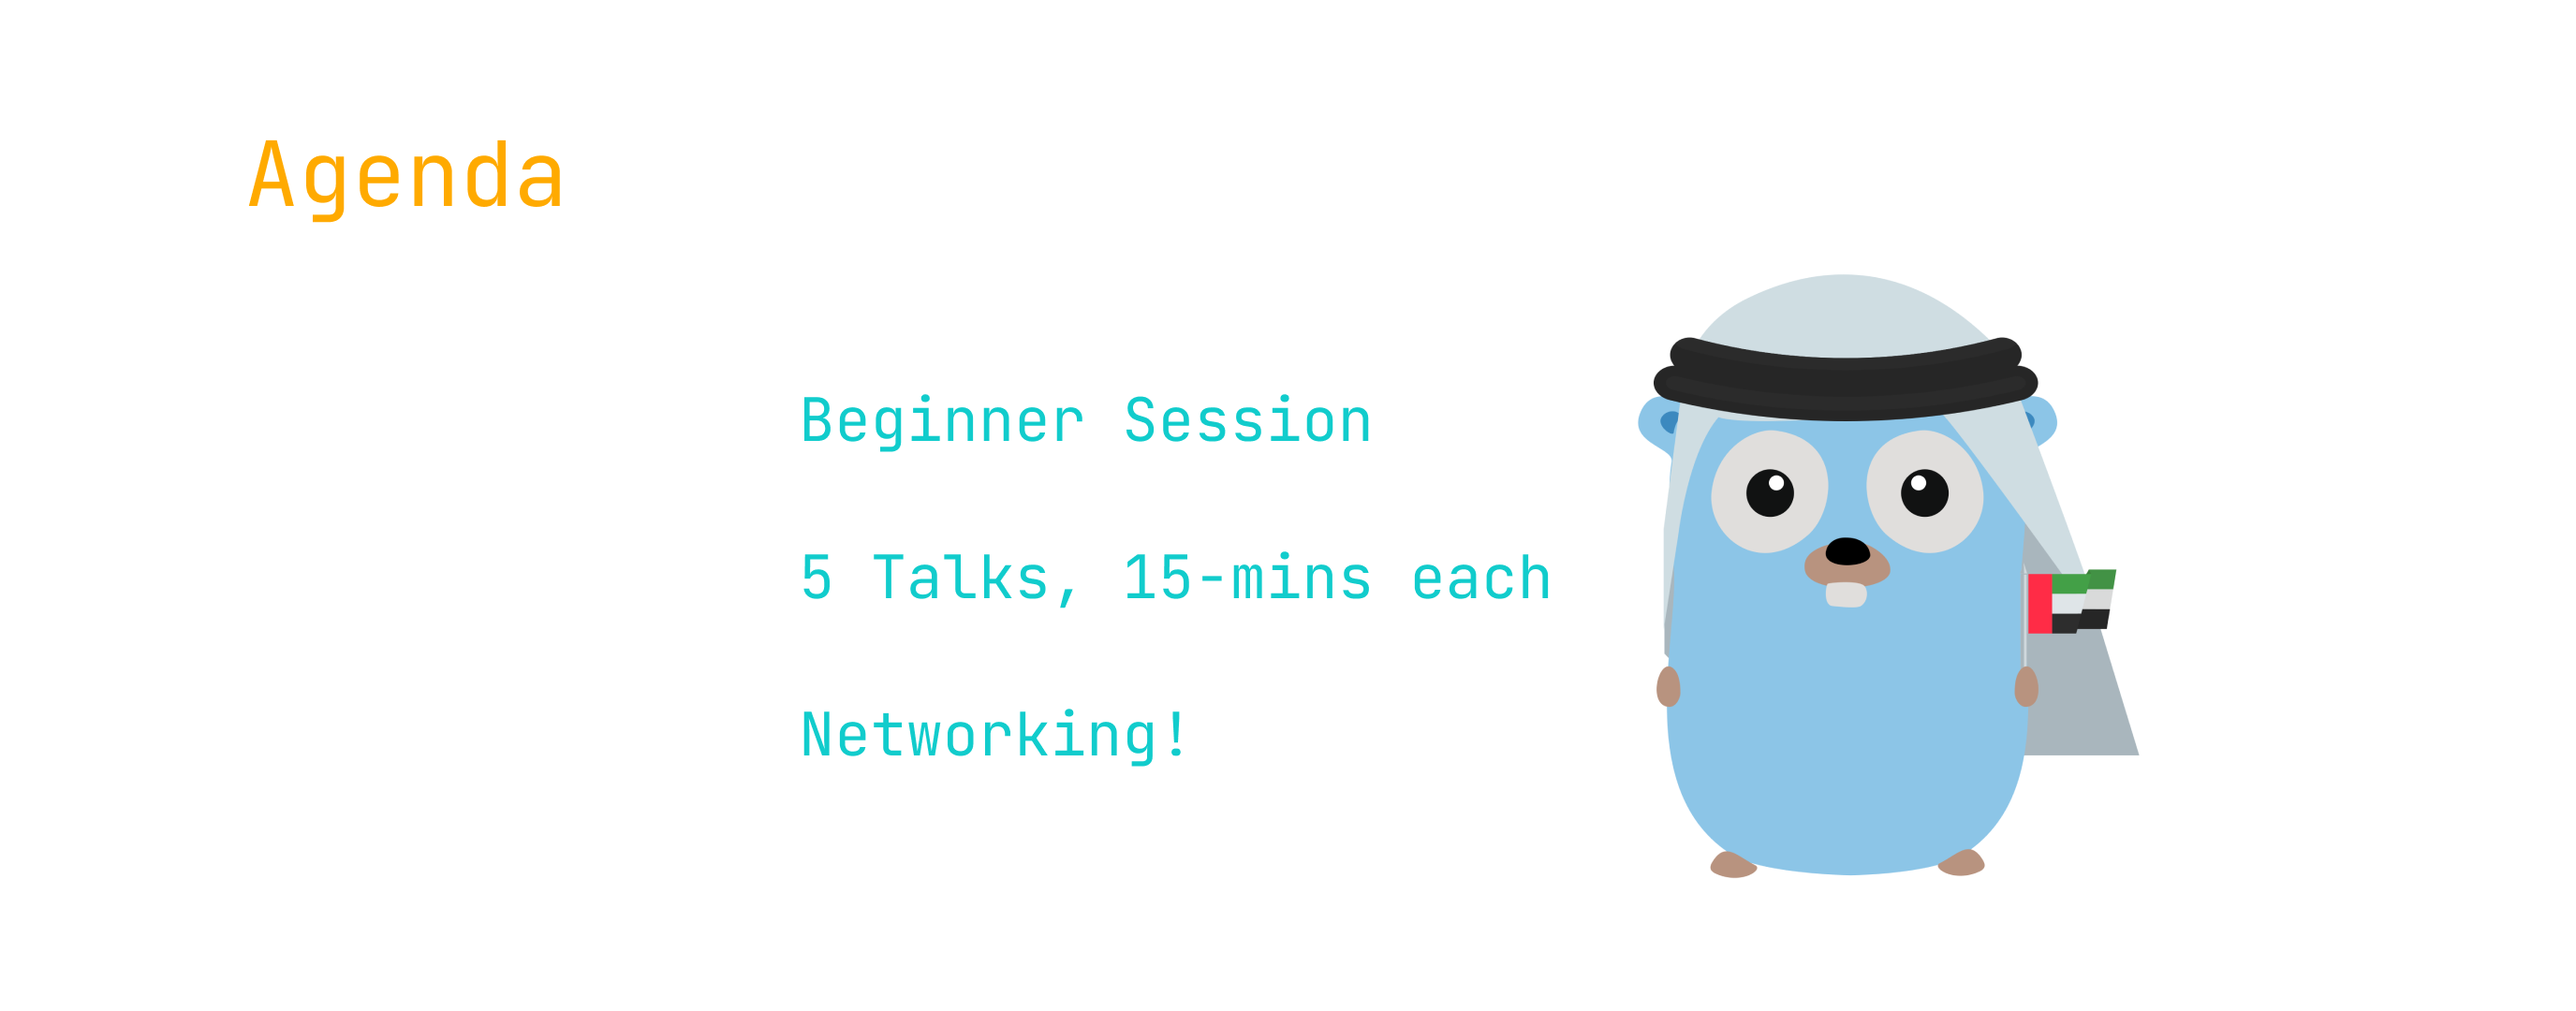
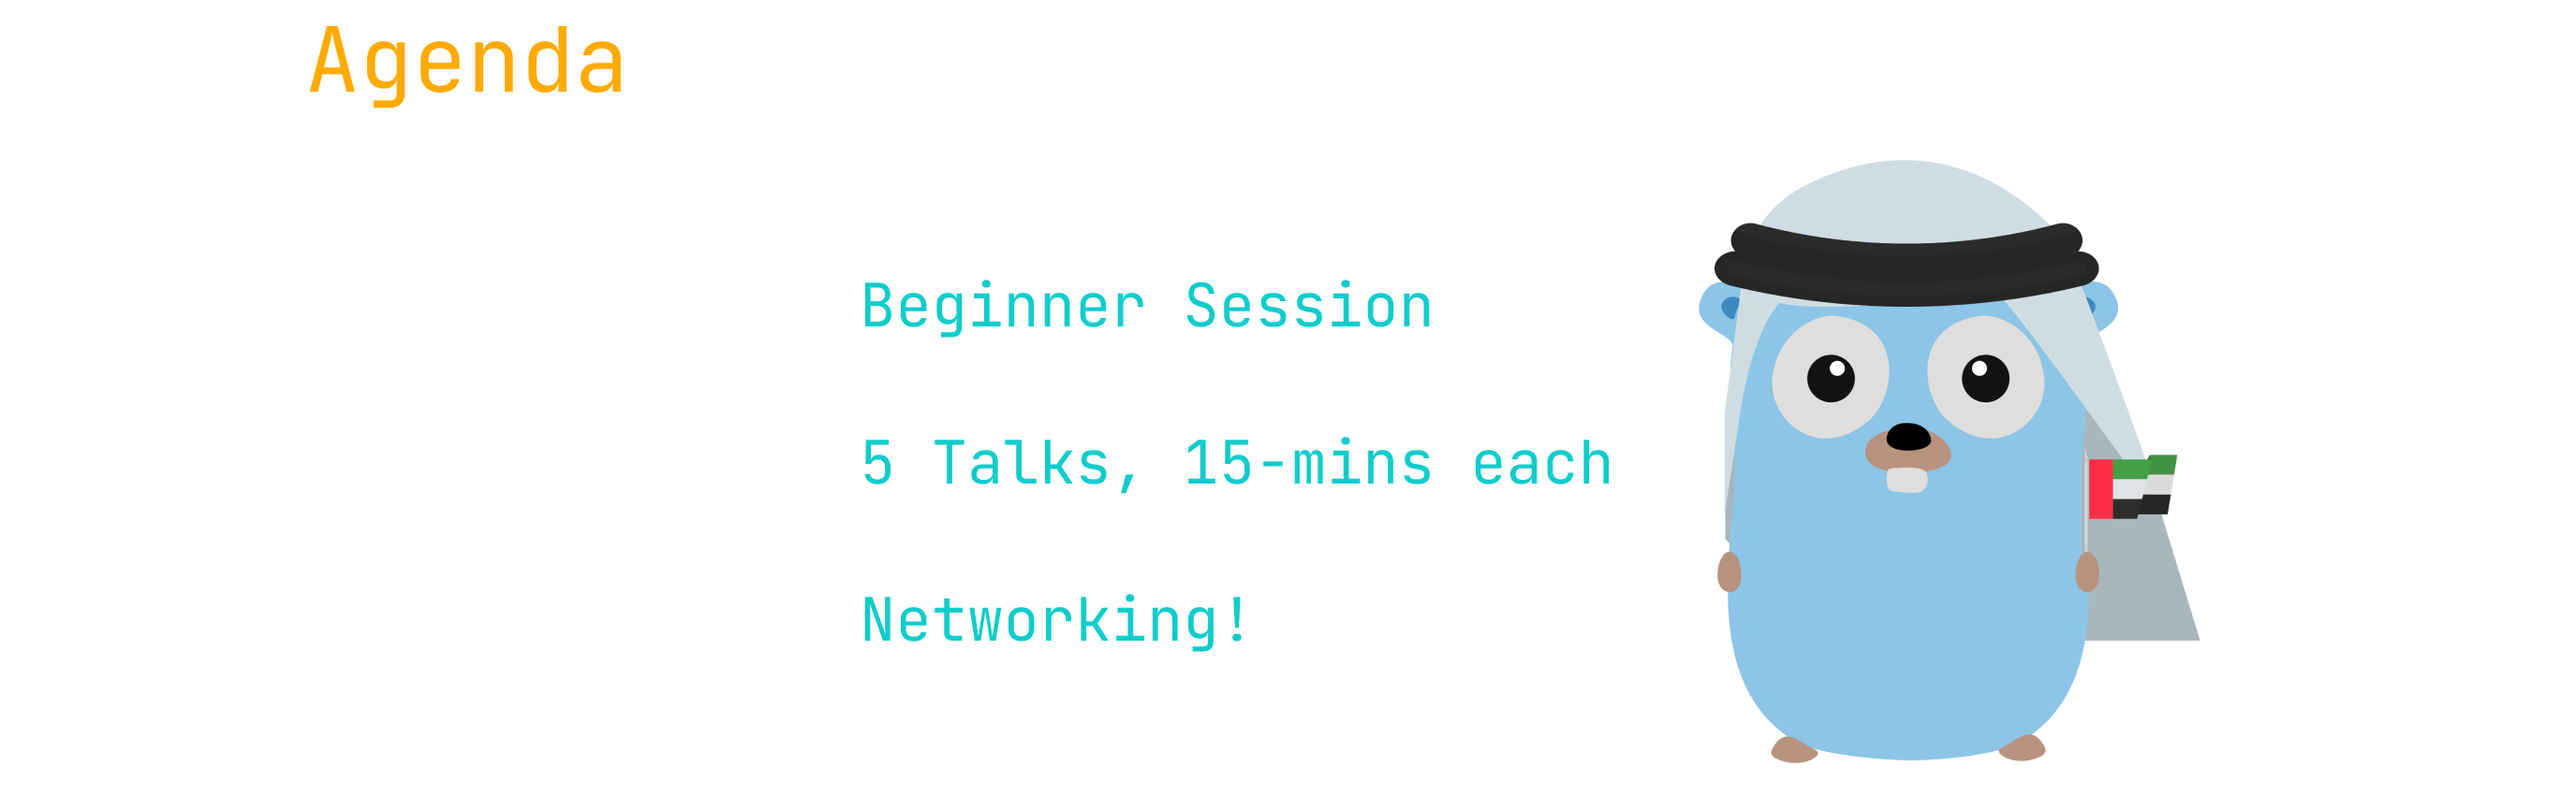
update slides

diff --git a/internal/model/model.go b/internal/model/model.go
@@ -19,6 +19,7 @@ import (
 	"github.com/maaslalani/slides/internal/file"
 	"github.com/maaslalani/slides/internal/navigation"
 	"github.com/maaslalani/slides/internal/process"
+	"github.com/maaslalani/slides/internal/slides"
 	"github.com/maaslalani/slides/internal/term"
 
 	"github.com/charmbracelet/bubbles/viewport"
@@ -40,10 +41,12 @@ const (
 	delimiter = "\n---\n"
 )
 
+const headerCells = 3
+
 // Model represents the model of this presentation, which contains all the
 // state related to the current slides.
 type Model struct {
-	Slides   []string
+	Slides   []slides.Slide
 	Page     int
 	Author   string
 	Date     string
@@ -107,7 +110,7 @@ func (m *Model) Load() error {
 		slides = slides[1:]
 	}
 
-	m.Slides = slides
+	m.Slides = m.parseSlides(slides)
 	m.Author = metaData.Author
 	m.Date = metaData.Date
 	m.Paging = metaData.Paging
@@ -118,9 +121,41 @@ func (m *Model) Load() error {
 	return nil
 }
 
+func (m *Model) updateSlides() {
+	for i, slide := range m.Slides {
+		header := slide.Header
+		img := slide.Image
+		headerStr := ""
+		if header != nil {
+			headerStr = code.RenderImage(header, m.TerminalProtocol, headerCells, m.viewport.Width)
+		}
+		imageStr := ""
+		if img != nil {
+			imageStr = code.RenderImage(img, m.TerminalProtocol, m.viewport.Height, m.viewport.Width)
+		}
+		m.Slides[i].HeaderStr = headerStr
+		m.Slides[i].ImageStr = imageStr
+	}
+}
+
+func (m *Model) parseSlides(slidesStr []string) []slides.Slide {
+	newSlides := make([]slides.Slide, len(slidesStr))
+	for i, slide := range slidesStr {
+		header, slide := preprocessHeader(slide)
+		img, slide := preprocessImage(slide)
+		newSlides[i] = slides.Slide{
+			Content: slide,
+			Header:  header,
+			Image:   img,
+		}
+	}
+
+	return newSlides
+}
+
 func (m *Model) ExecuteCode() {
 	// Run code blocks
-	blocks, err := code.Parse(m.Slides[m.Page])
+	blocks, err := code.Parse(m.Slides[m.Page].Content)
 	if err != nil {
 		// We couldn't parse the code block on the screen
 		m.VirtualText = "\n" + err.Error()
@@ -149,14 +184,8 @@ func (m Model) Update(msg tea.Msg) (tea.Model, tea.Cmd) {
 		m.viewport.Width = msg.Width
 		m.viewport.Height = msg.Height
 		m.VirtualText = ""
+		m.updateSlides()
 		return m, ClearScreen
-
-	case clearScreenMsg:
-		m.VirtualText = ""
-
-		return m, tea.Sequence(tea.ClearScreen, func() tea.Msg {
-			return autoExecuteCodeMsg{}
-		})
 
 	case autoExecuteCodeMsg:
 		m.AutoExecuteCode()
@@ -204,7 +233,7 @@ func (m Model) Update(msg tea.Msg) (tea.Model, tea.Cmd) {
 			m.ExecuteCode()
 			return m, nil
 		case "y":
-			blocks, err := code.Parse(m.Slides[m.Page])
+			blocks, err := code.Parse(m.Slides[m.Page].Content)
 			if err != nil {
 				return m, nil
 			}
@@ -240,14 +269,23 @@ func (m Model) Update(msg tea.Msg) (tea.Model, tea.Cmd) {
 
 func (m Model) GetAvailableCells() int {
 	slide, _ := m.GetSlide()
-	return m.viewport.Height - lipgloss.Height(slide) - lipgloss.Height(m.GetStatusLine())
+	return m.viewport.Height - lipgloss.Height(slide)
 }
 
 func (m Model) GetSlide() (string, bool) {
+	currSlide := m.Slides[m.Page]
+
+	if currSlide.Image != nil {
+		return currSlide.ImageStr, true
+	}
+
 	r, _ := glamour.NewTermRenderer(m.Theme, glamour.WithWordWrap(m.viewport.Width))
-	slide := m.Slides[m.Page]
+	slide := currSlide.Content
 	slide = code.HideComments(slide)
-	header, slide := m.preprocessHeaders(slide)
+	header := ""
+	if currSlide.Header != nil {
+		header = currSlide.HeaderStr
+	}
 	slide, err := r.Render(slide)
 	slide = strings.ReplaceAll(slide, "\t", tabSpaces)
 	slide += m.VirtualText
@@ -298,11 +336,36 @@ func (m *Model) paging() string {
 	}
 }
 
-func preprocessImages(content string) string {
+func preprocessImage(content string) (image.Image, string) {
 	re := regexp.MustCompile(`!\[(.*?)\]\((.*?)\)`)
-	return re.ReplaceAllStringFunc(content, func(match string) string {
-		return fmt.Sprintf("```img\n///%s\n```", strings.Split(match[:len(match)-1], "(")[1])
-	})
+	// return re.ReplaceAllStringFunc(content, func(match string) string {
+	// 	return fmt.Sprintf("```img\n///%s\n```", strings.Split(match[:len(match)-1], "(")[1])
+	// })
+
+	// check if there is even an image
+	if !re.MatchString(content) {
+		return nil, content
+	}
+
+	// find the path to the image
+	path := strings.Split(content, "(")[1]
+	path = strings.Split(path, ")")[0]
+
+	imgFile, err := os.Open(path)
+	if err != nil {
+		return nil, content
+	}
+	defer imgFile.Close()
+
+	img, _, err := image.Decode(imgFile)
+	if err != nil {
+		return nil, content
+	}
+
+	// remove the image from the content
+	content = re.ReplaceAllString(content, "")
+
+	return img, content
 }
 
 // CreateImageFromText takes a string and generates an image.Image of that text using a TrueType font
@@ -320,7 +383,7 @@ func CreateImageFromText(text string, fontSize int) (image.Image, error) {
 	}
 
 	// Create a new RGBA image
-	img := image.NewRGBA(image.Rect(0, 0, 1920, 3*fontSize/2))
+	img := image.NewRGBA(image.Rect(0, 0, 2*fontSize*len(text)/3, 3*fontSize/2))
 
 	draw.Draw(img, img.Bounds(), &image.Uniform{image.Transparent}, image.Point{}, draw.Src)
 
@@ -334,7 +397,7 @@ func CreateImageFromText(text string, fontSize int) (image.Image, error) {
 	c.SetSrc(image.NewUniform(color.RGBA{R: 255, G: 170, B: 0, A: 255}))
 
 	// Draw the text on the image
-	pt := freetype.Pt(48, fontSize) // Starting point for the text
+	pt := freetype.Pt(fontSize/2, fontSize) // Starting point for the text
 	_, err = c.DrawString(text, pt)
 	if err != nil {
 		return nil, err
@@ -355,6 +418,22 @@ func getFirstHeader(content string) string {
 	return ""
 }
 
+func preprocessHeader(content string) (image.Image, string) {
+	// get the first header
+	match := getFirstHeader(content)
+
+	if match == "" {
+		return nil, content
+	}
+
+	img, err := CreateImageFromText(strings.TrimSpace(match[2:]), 72)
+	if err != nil {
+		return nil, content
+	}
+
+	return img, strings.Replace(content, match, "", 1)
+}
+
 func (m *Model) preprocessHeaders(content string) (string, string) {
 	// get the first header
 	match := getFirstHeader(content)
@@ -371,7 +450,7 @@ func (m *Model) preprocessHeaders(content string) (string, string) {
 	// remove the header
 	content = strings.Replace(content, match, "", 1)
 
-	imgStr := code.RenderImage(img, m.TerminalProtocol, 3, m.viewport.Width)
+	imgStr := code.RenderImage(img, m.TerminalProtocol, 4, m.viewport.Width)
 
 	return imgStr, content
 }
@@ -390,7 +469,7 @@ func readFile(path string) (string, error) {
 	}
 	content := string(b)
 
-	content = preprocessImages(content)
+	// content = preprocessImages(content)
 
 	// Pre-process slides if the file is executable to avoid
 	// unintentional code execution when presenting slides
@@ -440,9 +519,13 @@ func (m *Model) CurrentPage() int {
 
 type clearScreenMsg struct{}
 
-func ClearScreen() tea.Msg {
-	return clearScreenMsg{}
-}
+var ClearScreen = tea.Sequence(tea.ClearScreen, func() tea.Msg {
+	return autoExecuteCodeMsg{}
+})
+
+// func ClearScreenCmd() tea.Msg {
+// 	return tea.ClearScreen
+// }
 
 func isAutoExecuteLanguage(language string) bool {
 	for _, l := range []string{"qr", "img"} {
@@ -467,7 +550,7 @@ func (m *Model) SetPage(page int) tea.Cmd {
 
 func (m *Model) AutoExecuteCode() {
 	// Run code blocks
-	blocks, err := code.Parse(m.Slides[m.Page])
+	blocks, err := code.Parse(m.Slides[m.Page].Content)
 	if err != nil {
 		// We couldn't parse the code block on the screen
 		m.VirtualText = ""
@@ -489,6 +572,6 @@ func (m *Model) AutoExecuteCode() {
 }
 
 // Pages returns all the slides in the presentation.
-func (m *Model) Pages() []string {
+func (m *Model) Pages() []slides.Slide {
 	return m.Slides
 }

diff --git a/internal/code/code.go b/internal/code/code.go
@@ -78,14 +78,18 @@ func RenderImage(img image.Image, terminal term.TerminalProtocol, availableCells
 
 	aspectRatio := 2.2 * float64(img.Bounds().Dx()) / float64(img.Bounds().Dy())
 
-	rows := float64(availableCells)
-	cols := float64(rows) * aspectRatio
+	// rows := float64(availableCells)
 
-	if cols > float64(width) {
-		cols = float64(width)
-		// recalculate rows
-		rows = cols / aspectRatio
+	cols := float64(width)
+	rows := cols / aspectRatio
+
+	if rows > float64(availableCells) {
+		rows = float64(availableCells)
+		cols = rows * aspectRatio
 	}
+
+	// calculate the vertical cells to pad on top to center image
+	yPadding := max(int(float64(availableCells)/2-(rows/2)), 0)
 
 	switch terminal {
 	case term.Kitty:
@@ -105,7 +109,7 @@ func RenderImage(img image.Image, terminal term.TerminalProtocol, availableCells
 	default:
 		// 	ansi art
 	}
-	return buff.String()
+	return fmt.Sprintf("\033[%dB", yPadding) + buff.String()
 }
 
 // Execute takes a code.Block and returns the output of the executed code

diff --git a/internal/navigation/search.go b/internal/navigation/search.go
@@ -6,6 +6,7 @@ import (
 
 	"github.com/charmbracelet/bubbles/textinput"
 	tea "github.com/charmbracelet/bubbletea"
+	"github.com/maaslalani/slides/internal/slides"
 	"github.com/maaslalani/slides/styles"
 )
 
@@ -13,7 +14,7 @@ import (
 type Model interface {
 	CurrentPage() int
 	SetPage(page int) tea.Cmd
-	Pages() []string
+	Pages() []slides.Slide
 }
 
 // Search represents the current search
@@ -73,7 +74,7 @@ func (s *Search) Execute(m Model) {
 		return
 	}
 	check := func(i int) bool {
-		content := m.Pages()[i]
+		content := m.Pages()[i].Content
 		if len(pattern.FindAllStringSubmatch(content, 1)) != 0 {
 			m.SetPage(i)
 			return true

diff --git a/internal/term/kitty.go b/internal/term/kitty.go
@@ -62,7 +62,7 @@ func (o KittyImgOpts) ToHeader(opts ...string) string {
 		opts = append(opts, fmt.Sprintf("z=%d", o.ZIndex))
 	}
 
-	return KITTY_IMG_HDR + strings.Join(opts, ",") + ";"
+	return fmt.Sprintf("%s%s;", KITTY_IMG_HDR, strings.Join(opts, ","))
 }
 
 // checks if terminal supports kitty image protocols

diff --git a/internal/slides/slides.go b/internal/slides/slides.go
@@ -1,0 +1,11 @@
+package slides
+
+import "image"
+
+type Slide struct {
+	Header    image.Image
+	Image     image.Image
+	Content   string
+	HeaderStr string
+	ImageStr  string
+}
